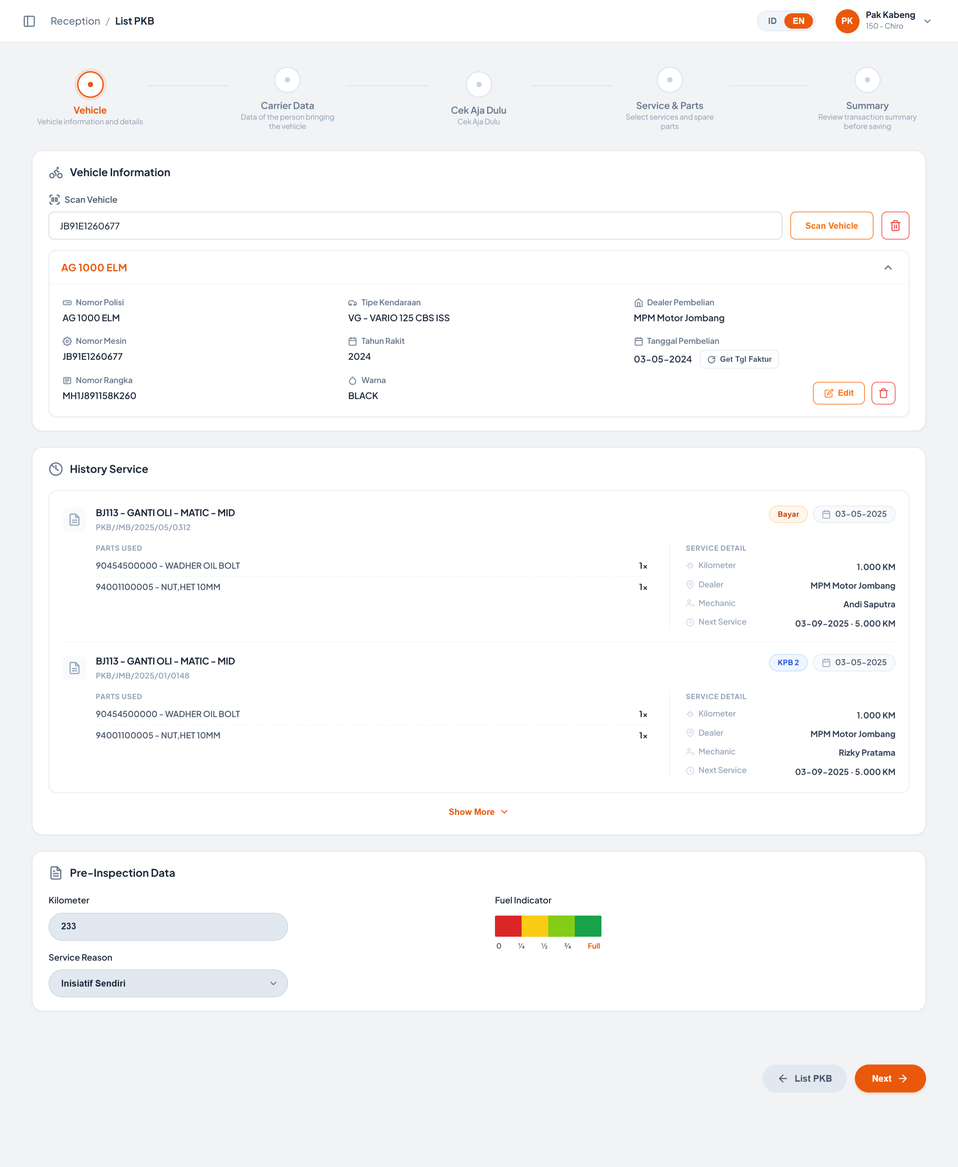
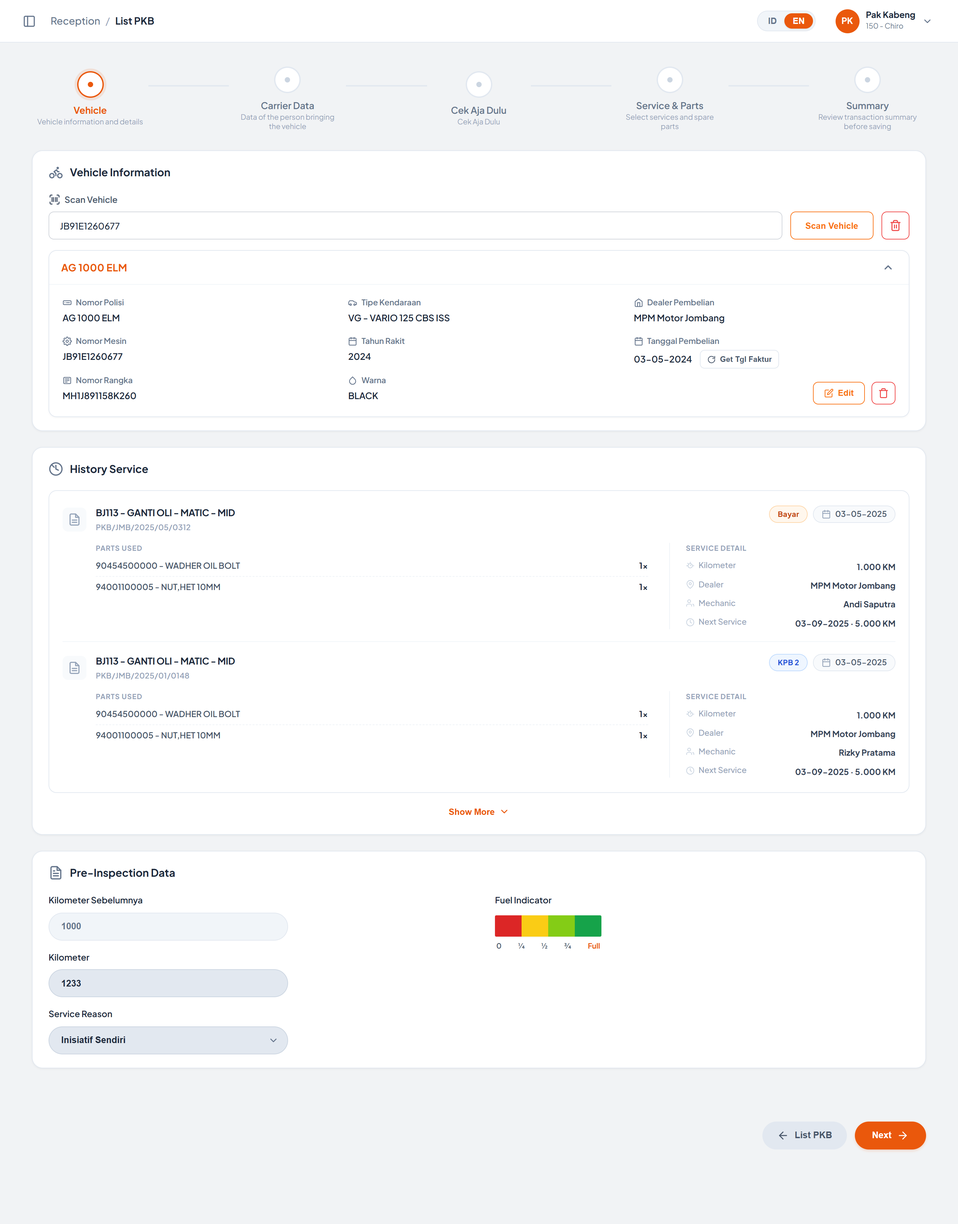
feat(list-canvasing): add Kilometer Sebelumnya field & Kilometer validation
Tambah field read-only "Kilometer Sebelumnya" pada card Pre-Inspection Data
(Step 1) sebagai acuan input Kilometer. Nilainya diambil dari lastKm kendaraan
hasil scan, dengan fallback pencarian katalog berdasarkan nomor mesin.

Field Kilometer kini hanya menerima angka dan divalidasi: nilainya harus lebih
besar dari Kilometer Sebelumnya. Saat dilanggar field masuk state error dan
menampilkan pesan inline; tombol Next pada Step 1 ikut memblokir perpindahan
step disertai toast dan fokus balik ke field.

Data dummy currentKm kendaraan pertama disesuaikan (233 -> 1233) agar konsisten
dengan lastKm dan History Service.

Dokumentasi: baris TXTBOX-Kilometer Sebelumnya ditambahkan, baris
TXTBOX-Kilometer & BUTTON-Next serta ringkasan temuan diperbarui, dan screenshot
Step 1 diregenerasi termasuk state validasi baru (02c).

diff --git a/List Canvasing/app.js b/List Canvasing/app.js
@@ -27,7 +27,7 @@ const sampleVehicles = [
     dealer: 'MPM Motor Jombang',
     lastKm: '1000',
     customer: 'Achmad Munib',
-    currentKm: '233',
+    currentKm: '1233',
     reason: 'Inisiatif Sendiri'
   },
   {
@@ -234,6 +234,7 @@ document.addEventListener('DOMContentLoaded', () => {
   initStepper();
   initCollapsibleCard();
   initFuelIndicator();
+  initKilometerValidation();
   initVehicleScanner();
   initCarrierStep();
   initCekAjaDuluStep();
@@ -748,6 +749,13 @@ function initStepper() {
   });
 
   btnNext.addEventListener('click', () => {
+    if (currentStep === 1 && window.validateKilometer && !window.validateKilometer()) {
+      showToast(window.kilometerLimitMessage ? window.kilometerLimitMessage() : 'Kilometer tidak valid');
+      const kmInput = document.getElementById('kilometerInput');
+      if (kmInput) kmInput.focus();
+      return;
+    }
+
     if (currentStep < totalSteps) {
       goToStep(currentStep + 1);
     } else {
@@ -869,6 +877,62 @@ function initFuelIndicator() {
   }
 }
 
+// Kilometer Validation (card Pre-Inspection Data)
+// Aturan: nilai Kilometer harus lebih besar dari nilai Kilometer Sebelumnya.
+function initKilometerValidation() {
+  const kmInput = document.getElementById('kilometerInput');
+  const prevInput = document.getElementById('prevKilometerInput');
+  const errorBox = document.getElementById('kilometerError');
+  const errorText = document.getElementById('kilometerErrorText');
+  if (!kmInput) return;
+
+  function parseKm(value) {
+    const digits = String(value == null ? '' : value).replace(/[^0-9]/g, '');
+    return digits === '' ? null : parseInt(digits, 10);
+  }
+
+  function previousKm() {
+    return prevInput ? parseKm(prevInput.value) : null;
+  }
+
+  function limitMessage(previous) {
+    return `Kilometer harus lebih besar dari Kilometer Sebelumnya (${previous.toLocaleString('id-ID')} km)`;
+  }
+
+  function validate() {
+    const current = parseKm(kmInput.value);
+    const previous = previousKm();
+    const invalid = current !== null && previous !== null && current <= previous;
+
+    kmInput.classList.toggle('is-invalid', invalid);
+    if (errorBox) errorBox.classList.toggle('show', invalid);
+    if (errorText && invalid) errorText.textContent = limitMessage(previous);
+
+    return !invalid;
+  }
+
+  // Field hanya menerima angka
+  kmInput.addEventListener('input', () => {
+    const digitsOnly = kmInput.value.replace(/[^0-9]/g, '');
+    if (digitsOnly !== kmInput.value) {
+      const caret = kmInput.selectionStart || 0;
+      const removed = kmInput.value.length - digitsOnly.length;
+      kmInput.value = digitsOnly;
+      const next = Math.max(0, caret - removed);
+      kmInput.setSelectionRange(next, next);
+    }
+    validate();
+  });
+
+  window.validateKilometer = validate;
+  window.kilometerLimitMessage = () => {
+    const previous = previousKm();
+    return previous === null ? '' : limitMessage(previous);
+  };
+
+  validate();
+}
+
 // Vehicle Scanner & Data Populator
 function initVehicleScanner() {
   const scanInput = document.getElementById('scanVehicleInput');
@@ -877,6 +941,7 @@ function initVehicleScanner() {
   const vehicleBox = document.getElementById('vehicleInfoCard');
   const emptyState = document.getElementById('vehicleEmptyState');
   const kmInput = document.getElementById('kilometerInput');
+  const prevKmInput = document.getElementById('prevKilometerInput');
   const btnEdit = document.getElementById('btnEditVehicle');
   const btnDelete = document.getElementById('btnDeleteVehicle');
   const btnInvoiceDate = document.getElementById('btnGetInvoiceDate');
@@ -1055,9 +1120,16 @@ function initVehicleScanner() {
     if (document.getElementById('dispPurchaseDate')) document.getElementById('dispPurchaseDate').textContent = vehicle.purchaseDate || '03-05-2024';
     if (document.getElementById('dispDealer')) document.getElementById('dispDealer').textContent = vehicle.dealer || 'MPM Motor Jombang';
 
+    if (prevKmInput) {
+      const catalog = sampleVehicles.find(v => v.engine === vehicle.engine);
+      prevKmInput.value = vehicle.lastKm || (catalog && catalog.lastKm) || '';
+    }
+
     if (kmInput && vehicle.currentKm) {
       kmInput.value = vehicle.currentKm;
     }
+
+    if (window.validateKilometer) window.validateKilometer();
 
     if (vehicleBox) vehicleBox.style.display = 'block';
     if (emptyState) emptyState.style.display = 'none';

diff --git a/List Canvasing/index.html b/List Canvasing/index.html
@@ -739,8 +739,23 @@
                   <!-- Left column: Kilometer & Service Reason -->
                   <div class="pre-inspection-left">
                     <div class="form-group mb-4">
+                      <label class="form-label" for="prevKilometerInput">Kilometer Sebelumnya</label>
+                      <input type="text" id="prevKilometerInput" class="form-input-pill" value="1000" readonly>
+                    </div>
+
+                    <div class="form-group mb-4">
                       <label class="form-label" for="kilometerInput">Kilometer</label>
-                      <input type="text" id="kilometerInput" class="form-input-pill" value="233">
+                      <input type="text" id="kilometerInput" class="form-input-pill" value="1233" inputmode="numeric"
+                        autocomplete="off">
+                      <p class="form-error-text" id="kilometerError">
+                        <svg width="13" height="13" viewBox="0 0 24 24" fill="none" stroke="currentColor"
+                          stroke-width="2.2" stroke-linecap="round" stroke-linejoin="round">
+                          <circle cx="12" cy="12" r="10"></circle>
+                          <line x1="12" y1="8" x2="12" y2="12"></line>
+                          <line x1="12" y1="16" x2="12.01" y2="16"></line>
+                        </svg>
+                        <span id="kilometerErrorText">Kilometer harus lebih besar dari Kilometer Sebelumnya</span>
+                      </p>
                     </div>
 
                     <div class="form-group">

diff --git a/List Canvasing/styles.css b/List Canvasing/styles.css
@@ -1236,6 +1236,55 @@ body {
   box-shadow: 0 0 0 3px rgba(249, 115, 22, 0.12);
 }
 
+/* Read-only pill (mis. Kilometer Sebelumnya) */
+.form-input-pill[readonly] {
+  background: #f1f5f9;
+  border-color: #e2e8f0;
+  color: #64748b;
+  cursor: default;
+}
+
+.form-input-pill[readonly]:focus {
+  background: #f1f5f9;
+  border-color: #e2e8f0;
+  box-shadow: none;
+}
+
+/* Invalid state + inline error message */
+.form-input-pill.is-invalid {
+  background: #fef2f2;
+  border-color: #ef4444;
+  color: #b91c1c;
+}
+
+.form-input-pill.is-invalid:focus {
+  background: #ffffff;
+  border-color: #ef4444;
+  box-shadow: 0 0 0 3px rgba(239, 68, 68, 0.14);
+}
+
+.form-error-text {
+  display: none;
+  align-items: flex-start;
+  gap: 6px;
+  max-width: 360px;
+  margin: 6px 0 0;
+  padding-left: 4px;
+  font-size: 11.5px;
+  font-weight: 600;
+  line-height: 1.45;
+  color: #dc2626;
+}
+
+.form-error-text.show {
+  display: flex;
+}
+
+.form-error-text svg {
+  flex-shrink: 0;
+  margin-top: 1px;
+}
+
 .select-pill-wrapper {
   position: relative;
   width: 100%;

diff --git a/List Canvasing/docs/list-canvasing.md b/List Canvasing/docs/list-canvasing.md
@@ -28,7 +28,7 @@ Modul ini dijalankan di dalam **iframe** pada layout shell portal (`index.html`)
 | TXTBOX-Search PKB | TXTBOX | Input kata kunci pencarian data PKB | Placeholder: *"Cari plat / kode PKB / pelanggan..."*<br><br>Pencarian dijalankan **realtime** pada event `input` (tanpa tombol cari), bersifat **case-insensitive** dan **partial match**, serta mengembalikan paging ke halaman 1<br><br>Kolom yang dicari: **Plat Nomor**, **Kode PKB**, **Nama Pelanggan**, dan **Tipe Kendaraan**<br><br>Hasil pencarian digabungkan (AND) dengan filter status (chip) dan filter rentang tanggal<br><br>**Catatan pengembangan:** placeholder belum menyebut Tipe Kendaraan padahal kolom tersebut ikut dicari | No | | | | | |
 | FILTER-Rentang Tanggal | DATE RANGE | Memfilter data PKB berdasarkan tanggal PKB (**Dari** … **s/d**) | Terdiri dari 2 kotak tanggal dengan format tampilan **dd-mm-yyyy** dan tombol **Clear (X)**<br><br>Tanggal dapat diisi **manual dengan mengetik** (tanda `-` disisipkan otomatis setiap 2 digit, maksimal 10 karakter) atau dipilih melalui **date picker native** pada ikon kalender<br><br>Filter diterapkan begitu tanggal valid lengkap (10 karakter); input tidak valid dikembalikan ke nilai terakhir saat `blur`, dan tombol **Enter** memicu `blur`<br><br>Bila **Dari** melebihi **s/d** (atau sebaliknya), tanggal pasangannya **disamakan otomatis**<br><br>Tombol **Clear** menghapus kedua tanggal dan bersifat **disabled** saat kedua tanggal kosong<br><br>Setiap perubahan mengembalikan paging ke halaman 1<br><br>**Catatan pengembangan:** filter masih dijalankan terhadap field `date` pada data statis front-end; perlu di-binding ke parameter tanggal pada API daftar PKB | No | | | | | |
 | CARD-PKB (List) | CARD LIST | Menampilkan daftar PKB canvasing dalam bentuk kartu per baris (1 card 1 row) | Kartu di-render dinamis oleh `renderPkbGrid()` dari sumber data `samplePkbList`<br><br>Format 1 card per baris menampilkan: **Kode PKB**, **Badge Status**, **Plat Nomor**, **Tipe Kendaraan**, **Pelanggan**, **Layanan**, **Jam** (WIB), **Mekanik**, **Progres**, dan ikon **chevron** di sisi kanan sebagai penanda kartu dapat dibuka<br><br>Warna kartu & badge mengikuti status melalui class `status-pending`, `status-progress`, `status-done`<br><br>Format keterangan **Progres**: <br> * Status *Sudah Dijalankan* → **"Selesai"** <br> * Step lebih dari 0 → `Step <n>/5 · <Nama Step>` <br> * Step 0 → **"Belum mulai"**<br><br>**Catatan pengembangan:** data PKB masih hardcode di front-end (8 data contoh) dan perlu di-binding ke API daftar PKB canvasing | | | | | | |
-| BUTTON-Buka Kartu PKB | BUTTON (CARD) | Membuka wizard PKB dengan data PKB pada kartu terpilih | Seluruh area kartu bersifat klik<br><br>Data yang diisi otomatis: <br> * **Scan Vehicle** dan detail kendaraan (dari nomor mesin PKB) <br> * **Data Carrier** dicari pada dataset carrier (`sampleCarriers`) berdasarkan **nomor telepon** PKB → mengisi Phone Number, First Name, Last Name, sekaligus tab **STNK Information** (Owner Name, Police Number, Address) <br> * Bila nomor telepon tidak ada pada dataset carrier, data carrier dibentuk dari data kartu PKB (nama pelanggan dipecah dengan pemisah spasi — kata pertama menjadi First Name, sisanya Last Name; STNK Address diisi `-`)<br><br>Muncul toast **"Data PKB `<kode>` dimuat (`<plat>`)"**<br><br>Mengirim `postMessage` `UPDATE_CRUMB` dengan sub-crumb berisi **plat nomor** PKB terpilih<br><br>Wizard **selalu dibuka pada Step 1**<br><br>**Catatan pengembangan:** field **Kilometer** pada Step 1 terisi dari `currentKm` katalog kendaraan, bukan dari data PKB — perlu ditentukan sumber datanya | | | Step 1 — Vehicle | | | |
+| BUTTON-Buka Kartu PKB | BUTTON (CARD) | Membuka wizard PKB dengan data PKB pada kartu terpilih | Seluruh area kartu bersifat klik<br><br>Data yang diisi otomatis: <br> * **Scan Vehicle** dan detail kendaraan (dari nomor mesin PKB) <br> * **Data Carrier** dicari pada dataset carrier (`sampleCarriers`) berdasarkan **nomor telepon** PKB → mengisi Phone Number, First Name, Last Name, sekaligus tab **STNK Information** (Owner Name, Police Number, Address) <br> * Bila nomor telepon tidak ada pada dataset carrier, data carrier dibentuk dari data kartu PKB (nama pelanggan dipecah dengan pemisah spasi — kata pertama menjadi First Name, sisanya Last Name; STNK Address diisi `-`)<br><br>Muncul toast **"Data PKB `<kode>` dimuat (`<plat>`)"**<br><br>Mengirim `postMessage` `UPDATE_CRUMB` dengan sub-crumb berisi **plat nomor** PKB terpilih<br><br>Wizard **selalu dibuka pada Step 1**<br><br>**Catatan pengembangan:** field **Kilometer** dan **Kilometer Sebelumnya** pada Step 1 terisi dari `currentKm` / `lastKm` katalog kendaraan (dicocokkan lewat nomor mesin), bukan dari data PKB — perlu ditentukan sumber datanya | | | Step 1 — Vehicle | | | |
 | LABEL-Empty State | LABEL | Menampilkan keterangan saat hasil filter kosong | Teks: **"Tidak ada data PKB yang cocok."**<br><br>Ditampilkan hanya jika kombinasi pencarian, filter status, dan filter rentang tanggal tidak menghasilkan data | | | | | | |
 | PAGINATION-PKB | PAGINATION | Navigasi halaman daftar kartu PKB | Menampilkan info paging (*"Menampilkan X - Y dari Z data"*) dan tombol navigasi: Prev `<`, **nomor halaman dinamis** (dibuat sesuai jumlah halaman hasil filter), dan Next `>`<br><br>Membatasi **5 kartu per halaman** untuk mencegah halaman memanjang ke bawah<br><br>Tombol Prev/Next otomatis **disabled** pada halaman pertama/terakhir, nomor halaman aktif ditandai class `active`, dan seluruh area pagination disembunyikan bila hasil filter kosong | | | | | | |
 
@@ -36,9 +36,11 @@ Modul ini dijalankan di dalam **iframe** pada layout shell portal (`index.html`)
 
 # Tampilan Step 1 — Vehicle
 
- ![Step 1 Vehicle](attachments/list-canvasing-02-step1-vehicle.png " =1440x1754")
+ ![Step 1 Vehicle](attachments/list-canvasing-02-step1-vehicle.png " =1440x1840")
 
- ![Empty state saat data kendaraan dihapus](attachments/list-canvasing-02b-step1-empty-vehicle.png " =1440x1616")
+ ![Empty state saat data kendaraan dihapus](attachments/list-canvasing-02b-step1-empty-vehicle.png " =1440x1702")
+
+ ![Validasi Kilometer tidak lebih besar dari Kilometer Sebelumnya](attachments/list-canvasing-02c-step1-kilometer-invalid.png " =1440x1887")
 
 **Stepper Wizard** terdiri dari 5 step: **Vehicle** → **Carrier Data** → **Cek Aja Dulu** → **Service & Parts** → **Summary**.
 
@@ -58,7 +60,8 @@ Modul ini dijalankan di dalam **iframe** pada layout shell portal (`index.html`)
 | BUTTON-Input New Data | BUTTON | Membuka pop-up input data kendaraan baru | Membuka modal `inputDataModal` dalam **mode Create**: judul modal **"Input New Vehicle Data"** dan seluruh field direset kosong | | | Modal Input / Edit Vehicle Data | | | |
 | LIST-History Service | LIST | Menampilkan riwayat servis kendaraan terpilih | Tiap item disusun **2 kolom** agar sisi kanan card ikut terpakai: <br> * **Header item** — ikon dokumen, **Nama Paket Servis**, dan **Nomor PKB** di bawah judul; pada sisi kanan **tag jenis servis** (`Bayar` / `KPB 2`) dan **chip Tanggal Servis** <br> * **Kolom kiri — Parts Used** — daftar part beserta **qty** (qty rata kanan, antar baris dipisah garis putus-putus) <br> * **Kolom kanan — Service Detail** — **Kilometer**, **Dealer/Bengkel**, **Mekanik**, dan **Next Service** (tanggal + kilometer), format label kiri / nilai kanan dengan garis pemisah vertikal terhadap kolom kiri<br><br>Pada layar **≤1024px** kedua kolom ditumpuk vertikal dan garis pemisah berubah menjadi horizontal<br><br>**Catatan pengembangan:** isi riwayat masih **hardcode di HTML** (2 item) dan tidak berubah saat kendaraan lain di-scan. Field **Nomor PKB**, **Mekanik**, **Next Service**, dan **tag jenis servis** masih **data dummy** — seluruh isi perlu di-binding ke API riwayat servis per kendaraan | | | | | | |
 | BUTTON-Show More History | BUTTON | Menampilkan seluruh riwayat servis | **Catatan pengembangan:** tombol baru menampilkan toast **"Showing all historical services (2 records displayed)"** tanpa benar-benar menambah data. Perlu implementasi paging / lazy load riwayat | | | | | | |
-| TXTBOX-Kilometer | TXTBOX | Input kilometer kendaraan saat penerimaan | Berada pada card **Pre-Inspection Data**<br><br>Terisi otomatis dari **Current KM** kendaraan hasil scan (contoh: `233`)<br><br>**Catatan pengembangan:** tipe input masih **text** (bukan number) sehingga menerima karakter non-angka, dan belum ada validasi bahwa kilometer saat ini tidak boleh lebih kecil dari kilometer servis terakhir | Yes | | | | | |
+| TXTBOX-Kilometer Sebelumnya | TXTBOX (READ-ONLY) | Menampilkan kilometer kendaraan pada servis sebelumnya sebagai acuan input Kilometer | Berada pada card **Pre-Inspection Data**, tepat **di atas** field Kilometer<br><br>Bersifat **read-only** (tampil abu-abu, tidak dapat diketik maupun difokuskan untuk diubah)<br><br>Terisi otomatis dari **Last KM** kendaraan hasil scan (contoh: `1000`). Bila data PKB tidak membawa Last KM, nilai dicari pada katalog kendaraan (`sampleVehicles`) berdasarkan **nomor mesin**; bila tetap tidak ditemukan, field dikosongkan<br><br>Nilai field ini menjadi **batas bawah** validasi field Kilometer — bila kosong, validasi tidak dijalankan<br><br>**Catatan pengembangan:** nilai masih diambil dari data dummy `lastKm` — perlu di-binding ke API riwayat servis terakhir kendaraan | | | | | | |
+| TXTBOX-Kilometer | TXTBOX | Input kilometer kendaraan saat penerimaan | Berada pada card **Pre-Inspection Data**<br><br>Terisi otomatis dari **Current KM** kendaraan hasil scan (contoh: `1233`)<br><br>**Hanya menerima angka** — seluruh karakter non-angka otomatis dibuang saat diketik atau di-paste (posisi kursor dipertahankan)<br><br>**Validasi:** nilai yang diinput **harus lebih besar** dari nilai field **Kilometer Sebelumnya** — nilai yang **lebih kecil atau sama dengan** Kilometer Sebelumnya ditolak. Saat dilanggar: field berubah ke state error (latar merah muda, border merah) dan muncul pesan **"Kilometer harus lebih besar dari Kilometer Sebelumnya (`<nilai>` km)"** di bawah field<br><br>Validasi dijalankan **saat mengetik**, **saat kendaraan di-scan / PKB dibuka**, dan **saat tombol Next ditekan** pada Step 1<br><br>**Catatan pengembangan:** tipe input masih **text** (bukan number) dengan `inputmode="numeric"`, dan field ini belum divalidasi sebagai mandatory (masih boleh kosong) | Yes | | | | | |
 | LOV-Service Reason | LIST OF VIEW | Menampilkan daftar alasan kedatangan / servis | Nilai default terpilih: **Inisiatif Sendiri**<br><br>Pilihan yang tersedia: Inisiatif Sendiri, Servis Berkala / Rutin, Keluhan Mesin, Ganti Oli Saja, Klaim Garansi<br><br>**Catatan pengembangan:** isi dropdown masih hardcode dan perlu di-binding ke master alasan servis | Yes | | | | | |
 | GAUGE-Fuel Indicator | GAUGE / SEGMENTED SELECT | Menandai level bahan bakar kendaraan saat diterima | Terdiri dari 4 segmen warna (merah, kuning, lime, hijau) dan 5 label level: **0**, **¼**, **½**, **¾**, **Full**<br><br>Level dapat dipilih dengan mengklik **segmen** maupun **label**. Segmen di bawah/sama dengan level terpilih tampil penuh, sisanya diredupkan (opacity 0.25 + grayscale)<br><br>Setelah dipilih muncul toast **"Fuel indicator set to: `<level>`"**<br><br>**Catatan pengembangan:** <br> 1. Level default disimpan sebagai **Full (4)** namun styling awal **tidak pernah dijalankan**, sehingga seluruh segmen tampil aktif dan label Full tidak tersorot — perlu inisialisasi tampilan saat halaman dibuka <br> 2. Level **0** hanya dapat dipilih melalui label (tidak ada segmennya) | Yes | | | | | |
 
@@ -86,7 +89,7 @@ Modal menggunakan satu markup yang sama (`inputDataModal`) dengan dua mode:
 | TXTBOX-Dealer Pembelian | TXTBOX | Input dealer tempat pembelian kendaraan | Placeholder: *"Contoh: MPM Motor Jombang"*<br><br>Tidak wajib diisi | No | | | | | |
 | DATE-Tanggal Pembelian | DATE PICKER | Input tanggal pembelian kendaraan | Menggunakan input bertipe **date**; nilainya dikonversi ke format **DD-MM-YYYY** saat ditampilkan pada box detail kendaraan | No | | | | | |
 | BUTTON-Get Tgl Faktur (Modal) | BUTTON | Mengambil tanggal pembelian dari data faktur | Pencocokan dilakukan terhadap isi field **Nomor Mesin** pada modal<br><br>Jika ditemukan: field Tanggal Pembelian terisi dan muncul toast **"Tanggal faktur: `<tanggal>`"**<br><br>Jika tidak ditemukan: muncul toast **"Tanggal faktur tidak ditemukan untuk nomor mesin ini"** | | | | | | |
-| BUTTON-Simpan & Pilih | BUTTON (SUBMIT) | Menyimpan data kendaraan dan memuatnya ke Step 1 | Validasi wajib dijalankan oleh atribut `required` bawaan browser<br><br>Setelah submit: box detail kendaraan diisi dengan data pada form, field **Scan Vehicle** diisi Nomor Mesin, modal tertutup, dan form direset<br><br>Toast mengikuti mode: **"Vehicle data updated successfully!"** (Edit) atau **"New vehicle registered successfully!"** (Create)<br><br>**Catatan pengembangan:** <br> 1. Data hanya diterapkan ke tampilan (tidak disimpan ke katalog kendaraan), sehingga hasil edit **hilang** begitu tombol **Scan Vehicle** dijalankan kembali <br> 2. Field **Kilometer** pada Pre-Inspection Data **tidak ikut diperbarui** (nilai `km` yang dibentuk saat submit tidak dipakai oleh tampilan) | | | Step 1 — Vehicle | | | |
+| BUTTON-Simpan & Pilih | BUTTON (SUBMIT) | Menyimpan data kendaraan dan memuatnya ke Step 1 | Validasi wajib dijalankan oleh atribut `required` bawaan browser<br><br>Setelah submit: box detail kendaraan diisi dengan data pada form, field **Scan Vehicle** diisi Nomor Mesin, modal tertutup, dan form direset<br><br>Toast mengikuti mode: **"Vehicle data updated successfully!"** (Edit) atau **"New vehicle registered successfully!"** (Create)<br><br>**Catatan pengembangan:** <br> 1. Data hanya diterapkan ke tampilan (tidak disimpan ke katalog kendaraan), sehingga hasil edit **hilang** begitu tombol **Scan Vehicle** dijalankan kembali <br> 2. Field **Kilometer** pada Pre-Inspection Data **tidak ikut diperbarui** (nilai `km` yang dibentuk saat submit tidak dipakai oleh tampilan) <br> 3. Field **Kilometer Sebelumnya** diisi ulang dari katalog kendaraan berdasarkan **Nomor Mesin** hasil submit — bila nomor mesin tidak dikenali, field **dikosongkan** sehingga validasi Kilometer ikut nonaktif | | | Step 1 — Vehicle | | | |
 | BUTTON-Batal | BUTTON | Menutup pop-up tanpa menyimpan | Modal juga tertutup melalui tombol Close (X) atau klik pada area backdrop<br><br>Isi form yang tertinggal **direset otomatis** saat modal dibuka kembali pada mode Create, dan **ditimpa data kendaraan** saat dibuka pada mode Edit | | | | | | |
 
 ---
@@ -199,7 +202,7 @@ Modal menggunakan satu markup yang sama (`inputDataModal`) dengan dua mode:
 | Element Code | Component Type | Function | Behavior & Rule | Mandatory | API | Endpoint/Navigate | Method | Status QCC | Status Dev |
 |--------------|----------------|----------|-----------------|-----------|-----|-------------------|--------|------------|------------|
 |              |                |          |                 |           |     |                   |        |            |            |
-| BUTTON-Next (Bottom Action) | BUTTON | Lanjut ke step berikutnya pada wizard | Berpindah dari step aktif ke step berikutnya **tanpa validasi apapun**<br><br>Label tombol berubah menjadi **"Save PKB"** saat berada di step terakhir<br><br>**Catatan pengembangan:** <br> 1. Belum ada validasi mandatory antar step (data kendaraan, carrier, LCR, hasil pemeriksaan) <br> 2. Baris tombol bawah **disembunyikan** saat Step 5, sehingga label *"Save PKB"* dan aksi simpan pada tombol Next **tidak pernah dapat diakses user** — kode tersebut menjadi *dead code* dan sebaiknya dirapikan | | | Step berikutnya | | | |
+| BUTTON-Next (Bottom Action) | BUTTON | Lanjut ke step berikutnya pada wizard | Berpindah dari step aktif ke step berikutnya<br><br>**Step 1** — perpindahan **diblokir** bila field **Kilometer** tidak lebih besar dari **Kilometer Sebelumnya**: muncul toast **"Kilometer harus lebih besar dari Kilometer Sebelumnya (`<nilai>` km)"** dan fokus dikembalikan ke field Kilometer<br><br>Label tombol berubah menjadi **"Save PKB"** saat berada di step terakhir<br><br>**Catatan pengembangan:** <br> 1. Selain validasi Kilometer pada Step 1, belum ada validasi mandatory antar step (data kendaraan, carrier, LCR, hasil pemeriksaan) <br> 2. Validasi hanya berlaku pada tombol Next — berpindah step melalui **klik node stepper** tetap tidak tervalidasi <br> 3. Baris tombol bawah **disembunyikan** saat Step 5, sehingga label *"Save PKB"* dan aksi simpan pada tombol Next **tidak pernah dapat diakses user** — kode tersebut menjadi *dead code* dan sebaiknya dirapikan | | | Step berikutnya | | | |
 | BUTTON-Back (Bottom Action) | BUTTON | Kembali ke step sebelumnya atau ke dashboard | Pada **Step 1**, label tombol berubah menjadi **"List PKB"** dan mengembalikan tampilan ke dashboard List PKB Canvasing<br><br>Pada step lainnya, label tombol adalah **"Back"** dan kembali ke step sebelumnya<br><br>**Catatan pengembangan:** belum ada konfirmasi saat keluar dari wizard padahal sudah ada data yang diisi (risiko kehilangan input) | | | Step sebelumnya / Dashboard List PKB | | | |
 | BUTTON-Save & Print PKB (Bottom Action) | BUTTON | Menyimpan dan mencetak PKB dari baris tombol bawah | Tampil hanya pada **Step 3 (Cek Aja Dulu)** — tombol disembunyikan sejak markup (`display: none`) serta pada Step 1, Step 2, Step 4, dan Step 5<br><br>Saat diklik muncul toast **"Menyimpan data dan mencetak PKB..."**, lalu setelah **1 detik** muncul toast **"PKB #PKB-2026-00892 berhasil disimpan & diteruskan ke sistem!"**<br><br>**Catatan pengembangan / Bug:** <br> 1. Tombol hanya aktif pada Step 3 Cek Aja Dulu untuk kasus user hanya melakukan pengecekan <br> 2. Nomor PKB pada notifikasi masih hardcode, sama seperti tombol pada Step 5 <br> 3. Terdapat **dua tombol simpan** dengan pesan berbeda (*"diteruskan ke sistem"* pada bottom action vs *"diteruskan ke mekanik"* pada Step 5) — perlu disatukan | | | | | | |
 | TOAST-Notifikasi | TOAST | Menampilkan notifikasi hasil aksi user | Notifikasi tampil pada satu elemen toast tunggal dan hilang otomatis setelah **3 detik**<br><br>**Catatan pengembangan:** karena hanya tersedia satu elemen, notifikasi baru **menimpa** notifikasi yang masih tampil (tidak ada antrean toast) sehingga pesan berurutan bisa terlewat oleh user | | | | | | |
@@ -219,7 +222,7 @@ Modal menggunakan satu markup yang sama (`inputDataModal`) dengan dua mode:
 |----|------|--------|--------|
 | 1 | Step 5 — Summary | Data Police Number, Vehicle Type, Carrier Name, Phone Number, tabel Service & Part, dan estimasi waktu **tidak disinkronkan** dari Step 1–4 (masih statis) | PKB yang disimpan/dicetak berpotensi memuat data kendaraan & pelanggan yang salah |
 | 2 | Save PKB | Nomor PKB pada notifikasi simpan masih hardcode, data tidak tersimpan, status PKB pada dashboard tidak berubah, dan tampilan tidak kembali ke dashboard | Proses inti modul (menyimpan PKB) belum berfungsi |
-| 3 | Wizard Navigation | Tidak ada validasi antar step, baik melalui tombol **Next** maupun klik node stepper | PKB dapat disimpan tanpa data kendaraan, carrier, maupun hasil pemeriksaan |
+| 3 | Wizard Navigation | Validasi antar step baru tersedia untuk field **Kilometer** pada Step 1 (via tombol **Next**); step lain belum tervalidasi dan klik node stepper melewati seluruh validasi | PKB dapat disimpan tanpa data kendaraan, carrier, maupun hasil pemeriksaan |
 | 4 | Step 1 — Scan Vehicle | Kendaraan yang tidak ditemukan **otomatis diganti** dengan kendaraan contoh pertama, tanpa pesan apapun | User dapat memproses PKB atas kendaraan yang salah |
 | 5 | Step 4 — Service & Parts | Aksi Add / Use / Hapus item hanya menampilkan toast tanpa mengubah daftar, dan Ringkasan Transaksi tidak pernah dihitung ulang | Nilai transaksi tidak dapat dipertanggungjawabkan |
 | 6 | Step 2 — Carrier | Pencarian carrier sudah memakai dataset dummy dan sudah menangani kondisi *tidak ditemukan*, namun pencocokan masih **partial match** pada nomor telepon / nama / plat sehingga kata kunci pendek langsung mengembalikan data pertama | Data pengantar berpotensi salah pilih; pencarian by phone sebaiknya exact match |
